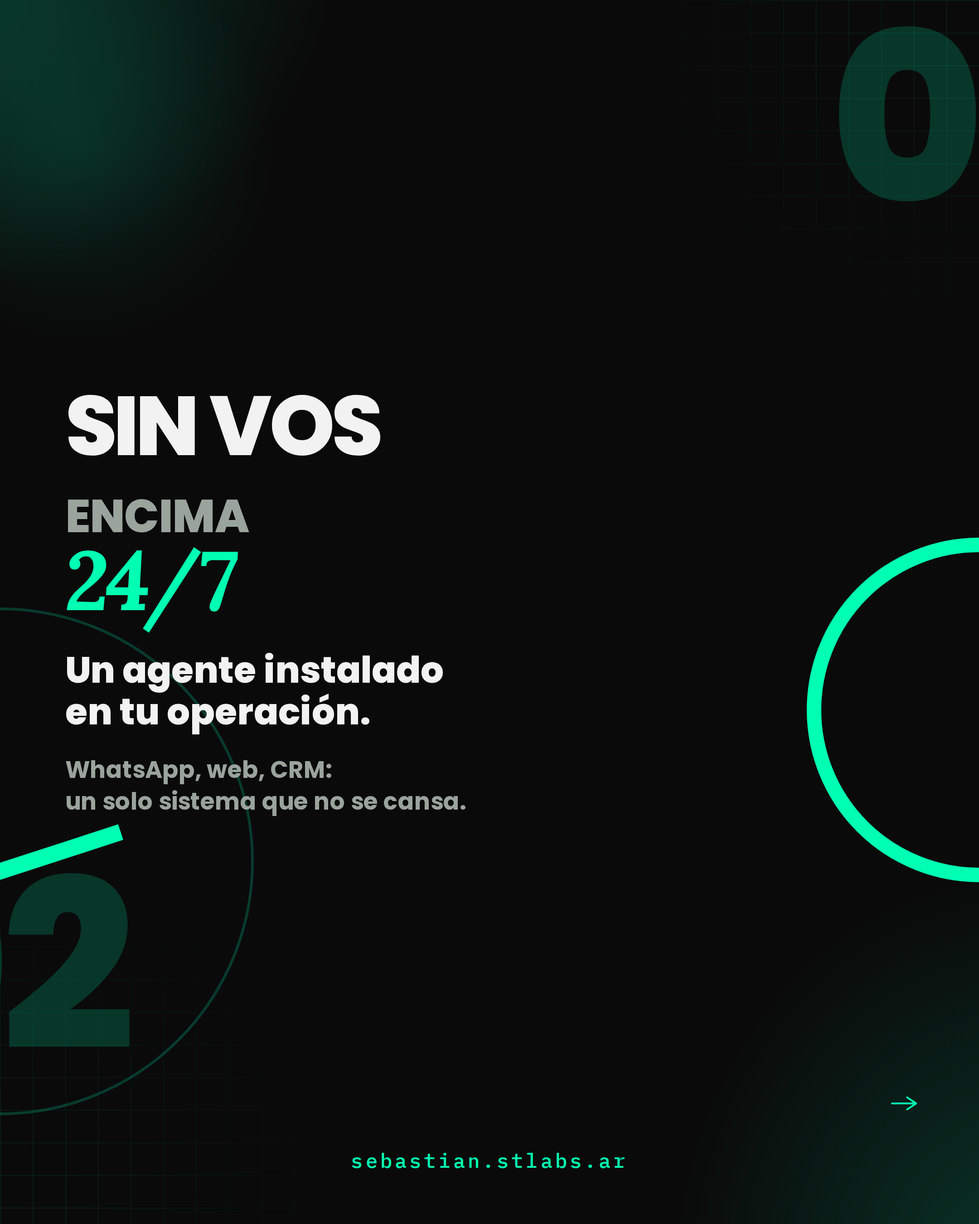
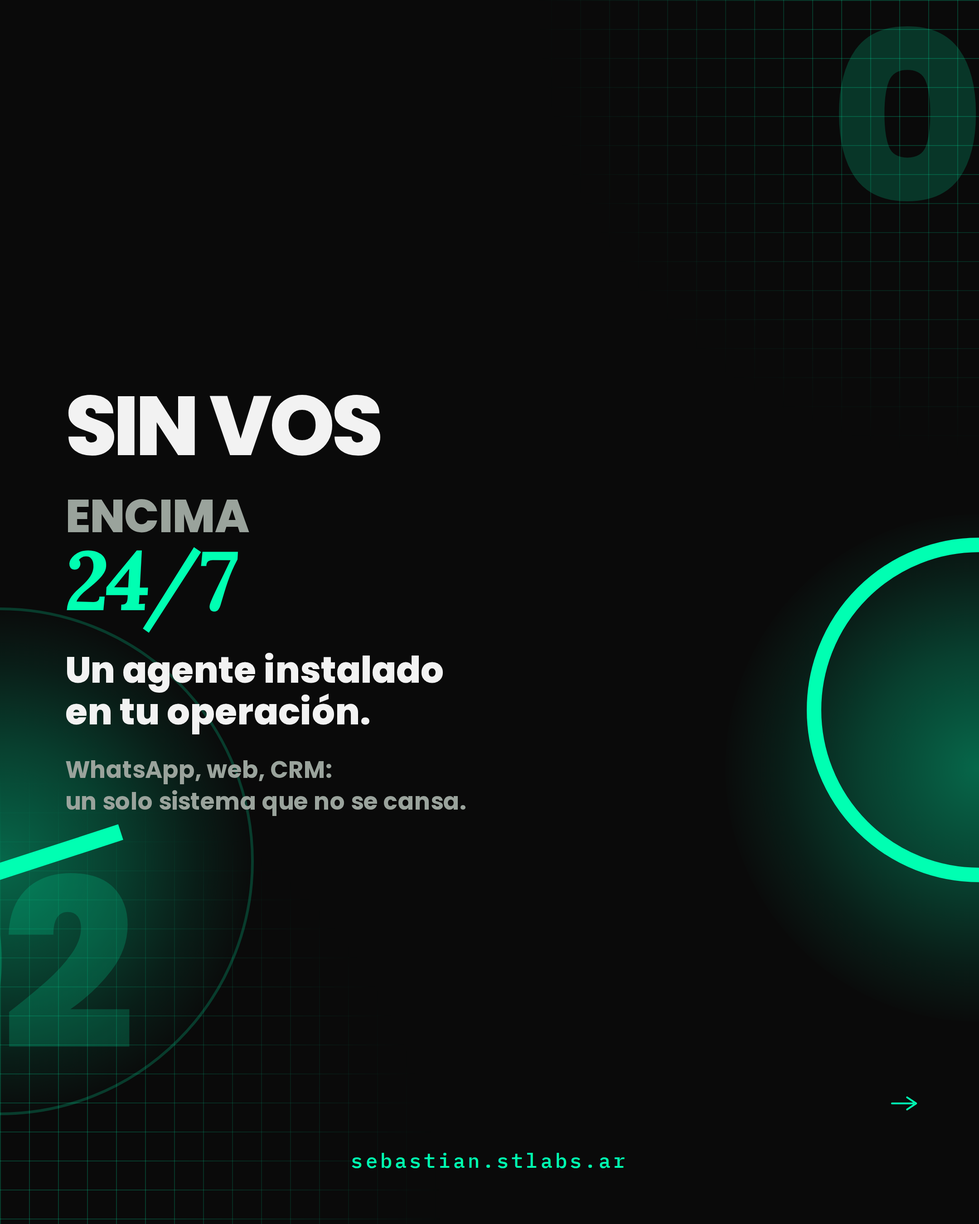
Fondo: cuadrícula más visible y manchas continuas entre slides
Retícula más notoria en esquinas; manchas verdes partidas en la
costura (hi/lo/mid) para continuidad al swipe.

diff --git a/builds/2026-08-16-frases-continuidad/carrusel-standalone.html b/builds/2026-08-16-frases-continuidad/carrusel-standalone.html
@@ -17,30 +17,42 @@ html, body { background:#000; }
 }
 .tex {
   position:absolute; inset:0; z-index:0; pointer-events:none;
-  background:
-    /* Manchas verdes — esquina sup-izq y inf-der */
-    radial-gradient(ellipse 58% 42% at -5% -5%, rgba(0,255,178,.22), transparent 68%),
-    radial-gradient(ellipse 52% 48% at 105% 105%, rgba(0,255,178,.18), transparent 70%),
-    radial-gradient(ellipse 28% 22% at 8% 12%, rgba(0,255,178,.10), transparent 72%);
+  background: transparent;
 }
 .tex::before,
 .tex::after {
   content:''; position:absolute; inset:0; pointer-events:none;
   background-image:
-    linear-gradient(rgba(0,255,178,.075) 1px, transparent 1px),
-    linear-gradient(90deg, rgba(0,255,178,.075) 1px, transparent 1px);
-  background-size:36px 36px;
+    linear-gradient(rgba(0,255,178,.20) 1px, transparent 1px),
+    linear-gradient(90deg, rgba(0,255,178,.20) 1px, transparent 1px);
+  background-size:32px 32px;
 }
-/* Cuadrícula sutil — esquina superior derecha */
+/* Cuadrícula más notoria — esquina superior derecha */
 .tex::before {
-  -webkit-mask-image: radial-gradient(ellipse 50% 40% at 100% 0%, #000 15%, transparent 72%);
-  mask-image: radial-gradient(ellipse 50% 40% at 100% 0%, #000 15%, transparent 72%);
+  -webkit-mask-image: radial-gradient(ellipse 58% 48% at 100% 0%, #000 25%, transparent 78%);
+  mask-image: radial-gradient(ellipse 58% 48% at 100% 0%, #000 25%, transparent 78%);
 }
-/* Cuadrícula sutil — esquina inferior izquierda */
+/* Cuadrícula más notoria — esquina inferior izquierda */
 .tex::after {
-  -webkit-mask-image: radial-gradient(ellipse 50% 40% at 0% 100%, #000 15%, transparent 72%);
-  mask-image: radial-gradient(ellipse 50% 40% at 0% 100%, #000 15%, transparent 72%);
+  -webkit-mask-image: radial-gradient(ellipse 58% 48% at 0% 100%, #000 25%, transparent 78%);
+  mask-image: radial-gradient(ellipse 58% 48% at 0% 100%, #000 25%, transparent 78%);
 }
+
+/* Manchas verdes continuas entre slides (centro en la costura) */
+.stain {
+  position:absolute; z-index:0; pointer-events:none;
+  width:560px; height:560px; border-radius:50%;
+  background: radial-gradient(circle at 50% 50%,
+    rgba(0,255,178,.38) 0%,
+    rgba(0,255,178,.22) 32%,
+    rgba(0,255,178,.08) 55%,
+    transparent 72%);
+}
+.stain-out { right:-280px; }
+.stain-in  { left:-280px; }
+.stain-hi  { top:40px; }
+.stain-lo  { bottom:120px; }
+.stain-mid { top:42%; }
 
 .seam-num {
   position:absolute; z-index:2; pointer-events:none;
@@ -135,7 +147,7 @@ html, body { background:#000; }
   font-size:32px; line-height:1.3; color:#F2F2F2; max-width:720px;
 }
 </style></head>
-<body><div class="sheet"><section class="slide" data-id="01"><div class="tex"></div><div class="seam-num seam-out seam-top" aria-hidden="true">01</div><div class="geo geo-circle geo-out" aria-hidden="true"></div><div class="geo geo-arrow geo-arrow-out" aria-hidden="true"><svg viewBox="0 0 200 80" width="200" height="80"><path d="M8 40 H130 M100 12 L168 40 L100 68" fill="none" stroke="#00FFB2" stroke-width="14" stroke-linecap="square" stroke-linejoin="miter"/></svg></div><div class="mid"><p class="kicker">Para dueños que no dan abasto</p><h1 class="display">TU EMPRESA<br>NECESITA<br>UN <span class="ac">AGENTE</span></h1><p class="punch">No otra persona.<br><span class="ac xl">Un sistema que vende.</span></p></div><div class="firma">sebastian.stlabs.ar</div><div class="nav-arrow" aria-hidden="true"><svg viewBox="0 0 40 24" width="34" height="20"><path d="M2 12 H30 M22 4 L34 12 L22 20" fill="none" stroke="#00FFB2" stroke-width="2.4" stroke-linecap="round" stroke-linejoin="round"/></svg></div></section><section class="slide" data-id="02"><div class="tex"></div><div class="seam-num seam-in seam-top" aria-hidden="true">01</div>
-<div class="seam-num seam-out seam-bot" aria-hidden="true">02</div><div class="geo geo-circle geo-in" aria-hidden="true"></div><div class="geo geo-arrow geo-arrow-in" aria-hidden="true"><svg viewBox="0 0 200 80" width="200" height="80"><path d="M-40 40 H90 M60 12 L128 40 L60 68" fill="none" stroke="#00FFB2" stroke-width="14" stroke-linecap="square" stroke-linejoin="miter"/></svg></div><div class="geo geo-ring geo-out-mid" aria-hidden="true"></div><div class="geo geo-bar geo-bar-out" aria-hidden="true"></div><div class="mid mid-r"><h1 class="display">RESPONDE<br><span class="sm">CADA</span><br><span class="ac">LEAD</span></h1><p class="punch soft">Califica. Agenda. Hace el seguimiento.<br><span class="ac">Mientras vos liderás.</span></p></div><div class="firma">sebastian.stlabs.ar</div><div class="nav-arrow" aria-hidden="true"><svg viewBox="0 0 40 24" width="34" height="20"><path d="M2 12 H30 M22 4 L34 12 L22 20" fill="none" stroke="#00FFB2" stroke-width="2.4" stroke-linecap="round" stroke-linejoin="round"/></svg></div></section><section class="slide" data-id="03"><div class="tex"></div><div class="seam-num seam-in seam-bot" aria-hidden="true">02</div>
-<div class="seam-num seam-out seam-top" aria-hidden="true">03</div><div class="geo geo-ring geo-in-mid" aria-hidden="true"></div><div class="geo geo-bar geo-bar-in" aria-hidden="true"></div><div class="geo geo-circle geo-out" aria-hidden="true"></div><div class="mid"><h1 class="display">SIN VOS<br><span class="sm">ENCIMA</span><br><span class="ac">24/7</span></h1><p class="punch">Un agente instalado<br>en tu operación.</p><p class="sub">WhatsApp, web, CRM:<br>un solo sistema que no se cansa.</p></div><div class="firma">sebastian.stlabs.ar</div><div class="nav-arrow" aria-hidden="true"><svg viewBox="0 0 40 24" width="34" height="20"><path d="M2 12 H30 M22 4 L34 12 L22 20" fill="none" stroke="#00FFB2" stroke-width="2.4" stroke-linecap="round" stroke-linejoin="round"/></svg></div></section><section class="slide" data-id="04"><div class="tex"></div><div class="seam-num seam-in seam-top" aria-hidden="true">03</div>
+<body><div class="sheet"><section class="slide" data-id="01"><div class="tex"></div><div class="stain stain-out stain-hi" aria-hidden="true"></div><div class="seam-num seam-out seam-top" aria-hidden="true">01</div><div class="geo geo-circle geo-out" aria-hidden="true"></div><div class="geo geo-arrow geo-arrow-out" aria-hidden="true"><svg viewBox="0 0 200 80" width="200" height="80"><path d="M8 40 H130 M100 12 L168 40 L100 68" fill="none" stroke="#00FFB2" stroke-width="14" stroke-linecap="square" stroke-linejoin="miter"/></svg></div><div class="mid"><p class="kicker">Para dueños que no dan abasto</p><h1 class="display">TU EMPRESA<br>NECESITA<br>UN <span class="ac">AGENTE</span></h1><p class="punch">No otra persona.<br><span class="ac xl">Un sistema que vende.</span></p></div><div class="firma">sebastian.stlabs.ar</div><div class="nav-arrow" aria-hidden="true"><svg viewBox="0 0 40 24" width="34" height="20"><path d="M2 12 H30 M22 4 L34 12 L22 20" fill="none" stroke="#00FFB2" stroke-width="2.4" stroke-linecap="round" stroke-linejoin="round"/></svg></div></section><section class="slide" data-id="02"><div class="tex"></div><div class="stain stain-in stain-hi" aria-hidden="true"></div><div class="stain stain-out stain-lo" aria-hidden="true"></div><div class="seam-num seam-in seam-top" aria-hidden="true">01</div>
+<div class="seam-num seam-out seam-bot" aria-hidden="true">02</div><div class="geo geo-circle geo-in" aria-hidden="true"></div><div class="geo geo-arrow geo-arrow-in" aria-hidden="true"><svg viewBox="0 0 200 80" width="200" height="80"><path d="M-40 40 H90 M60 12 L128 40 L60 68" fill="none" stroke="#00FFB2" stroke-width="14" stroke-linecap="square" stroke-linejoin="miter"/></svg></div><div class="geo geo-ring geo-out-mid" aria-hidden="true"></div><div class="geo geo-bar geo-bar-out" aria-hidden="true"></div><div class="mid mid-r"><h1 class="display">RESPONDE<br><span class="sm">CADA</span><br><span class="ac">LEAD</span></h1><p class="punch soft">Califica. Agenda. Hace el seguimiento.<br><span class="ac">Mientras vos liderás.</span></p></div><div class="firma">sebastian.stlabs.ar</div><div class="nav-arrow" aria-hidden="true"><svg viewBox="0 0 40 24" width="34" height="20"><path d="M2 12 H30 M22 4 L34 12 L22 20" fill="none" stroke="#00FFB2" stroke-width="2.4" stroke-linecap="round" stroke-linejoin="round"/></svg></div></section><section class="slide" data-id="03"><div class="tex"></div><div class="stain stain-in stain-lo" aria-hidden="true"></div><div class="stain stain-out stain-mid" aria-hidden="true"></div><div class="seam-num seam-in seam-bot" aria-hidden="true">02</div>
+<div class="seam-num seam-out seam-top" aria-hidden="true">03</div><div class="geo geo-ring geo-in-mid" aria-hidden="true"></div><div class="geo geo-bar geo-bar-in" aria-hidden="true"></div><div class="geo geo-circle geo-out" aria-hidden="true"></div><div class="mid"><h1 class="display">SIN VOS<br><span class="sm">ENCIMA</span><br><span class="ac">24/7</span></h1><p class="punch">Un agente instalado<br>en tu operación.</p><p class="sub">WhatsApp, web, CRM:<br>un solo sistema que no se cansa.</p></div><div class="firma">sebastian.stlabs.ar</div><div class="nav-arrow" aria-hidden="true"><svg viewBox="0 0 40 24" width="34" height="20"><path d="M2 12 H30 M22 4 L34 12 L22 20" fill="none" stroke="#00FFB2" stroke-width="2.4" stroke-linecap="round" stroke-linejoin="round"/></svg></div></section><section class="slide" data-id="04"><div class="tex"></div><div class="stain stain-in stain-mid" aria-hidden="true"></div><div class="seam-num seam-in seam-top" aria-hidden="true">03</div>
 <div class="seam-num seam-solo seam-bot" aria-hidden="true">04</div><div class="geo geo-circle geo-in" aria-hidden="true"></div><div class="geo geo-arrow geo-arrow-in" aria-hidden="true"><svg viewBox="0 0 200 80" width="200" height="80"><path d="M-40 40 H90 M60 12 L128 40 L60 68" fill="none" stroke="#00FFB2" stroke-width="14" stroke-linecap="square" stroke-linejoin="miter"/></svg></div><div class="mid mid-cta"><p class="cta-pre">Comentá</p><h1 class="cta-kw">AGENTE</h1><p class="cta-mid">y te muestro cómo meter<br>un sistema que venda<br><span class="ac">aunque vos no estés.</span></p></div><div class="firma">sebastian.stlabs.ar</div></section></div></body></html>

diff --git a/resultados/2026-08-16-frases-continuidad/carrusel-standalone.html b/resultados/2026-08-16-frases-continuidad/carrusel-standalone.html
@@ -17,30 +17,42 @@ html, body { background:#000; }
 }
 .tex {
   position:absolute; inset:0; z-index:0; pointer-events:none;
-  background:
-    /* Manchas verdes — esquina sup-izq y inf-der */
-    radial-gradient(ellipse 58% 42% at -5% -5%, rgba(0,255,178,.22), transparent 68%),
-    radial-gradient(ellipse 52% 48% at 105% 105%, rgba(0,255,178,.18), transparent 70%),
-    radial-gradient(ellipse 28% 22% at 8% 12%, rgba(0,255,178,.10), transparent 72%);
+  background: transparent;
 }
 .tex::before,
 .tex::after {
   content:''; position:absolute; inset:0; pointer-events:none;
   background-image:
-    linear-gradient(rgba(0,255,178,.075) 1px, transparent 1px),
-    linear-gradient(90deg, rgba(0,255,178,.075) 1px, transparent 1px);
-  background-size:36px 36px;
+    linear-gradient(rgba(0,255,178,.20) 1px, transparent 1px),
+    linear-gradient(90deg, rgba(0,255,178,.20) 1px, transparent 1px);
+  background-size:32px 32px;
 }
-/* Cuadrícula sutil — esquina superior derecha */
+/* Cuadrícula más notoria — esquina superior derecha */
 .tex::before {
-  -webkit-mask-image: radial-gradient(ellipse 50% 40% at 100% 0%, #000 15%, transparent 72%);
-  mask-image: radial-gradient(ellipse 50% 40% at 100% 0%, #000 15%, transparent 72%);
+  -webkit-mask-image: radial-gradient(ellipse 58% 48% at 100% 0%, #000 25%, transparent 78%);
+  mask-image: radial-gradient(ellipse 58% 48% at 100% 0%, #000 25%, transparent 78%);
 }
-/* Cuadrícula sutil — esquina inferior izquierda */
+/* Cuadrícula más notoria — esquina inferior izquierda */
 .tex::after {
-  -webkit-mask-image: radial-gradient(ellipse 50% 40% at 0% 100%, #000 15%, transparent 72%);
-  mask-image: radial-gradient(ellipse 50% 40% at 0% 100%, #000 15%, transparent 72%);
+  -webkit-mask-image: radial-gradient(ellipse 58% 48% at 0% 100%, #000 25%, transparent 78%);
+  mask-image: radial-gradient(ellipse 58% 48% at 0% 100%, #000 25%, transparent 78%);
 }
+
+/* Manchas verdes continuas entre slides (centro en la costura) */
+.stain {
+  position:absolute; z-index:0; pointer-events:none;
+  width:560px; height:560px; border-radius:50%;
+  background: radial-gradient(circle at 50% 50%,
+    rgba(0,255,178,.38) 0%,
+    rgba(0,255,178,.22) 32%,
+    rgba(0,255,178,.08) 55%,
+    transparent 72%);
+}
+.stain-out { right:-280px; }
+.stain-in  { left:-280px; }
+.stain-hi  { top:40px; }
+.stain-lo  { bottom:120px; }
+.stain-mid { top:42%; }
 
 .seam-num {
   position:absolute; z-index:2; pointer-events:none;
@@ -135,7 +147,7 @@ html, body { background:#000; }
   font-size:32px; line-height:1.3; color:#F2F2F2; max-width:720px;
 }
 </style></head>
-<body><div class="sheet"><section class="slide" data-id="01"><div class="tex"></div><div class="seam-num seam-out seam-top" aria-hidden="true">01</div><div class="geo geo-circle geo-out" aria-hidden="true"></div><div class="geo geo-arrow geo-arrow-out" aria-hidden="true"><svg viewBox="0 0 200 80" width="200" height="80"><path d="M8 40 H130 M100 12 L168 40 L100 68" fill="none" stroke="#00FFB2" stroke-width="14" stroke-linecap="square" stroke-linejoin="miter"/></svg></div><div class="mid"><p class="kicker">Para dueños que no dan abasto</p><h1 class="display">TU EMPRESA<br>NECESITA<br>UN <span class="ac">AGENTE</span></h1><p class="punch">No otra persona.<br><span class="ac xl">Un sistema que vende.</span></p></div><div class="firma">sebastian.stlabs.ar</div><div class="nav-arrow" aria-hidden="true"><svg viewBox="0 0 40 24" width="34" height="20"><path d="M2 12 H30 M22 4 L34 12 L22 20" fill="none" stroke="#00FFB2" stroke-width="2.4" stroke-linecap="round" stroke-linejoin="round"/></svg></div></section><section class="slide" data-id="02"><div class="tex"></div><div class="seam-num seam-in seam-top" aria-hidden="true">01</div>
-<div class="seam-num seam-out seam-bot" aria-hidden="true">02</div><div class="geo geo-circle geo-in" aria-hidden="true"></div><div class="geo geo-arrow geo-arrow-in" aria-hidden="true"><svg viewBox="0 0 200 80" width="200" height="80"><path d="M-40 40 H90 M60 12 L128 40 L60 68" fill="none" stroke="#00FFB2" stroke-width="14" stroke-linecap="square" stroke-linejoin="miter"/></svg></div><div class="geo geo-ring geo-out-mid" aria-hidden="true"></div><div class="geo geo-bar geo-bar-out" aria-hidden="true"></div><div class="mid mid-r"><h1 class="display">RESPONDE<br><span class="sm">CADA</span><br><span class="ac">LEAD</span></h1><p class="punch soft">Califica. Agenda. Hace el seguimiento.<br><span class="ac">Mientras vos liderás.</span></p></div><div class="firma">sebastian.stlabs.ar</div><div class="nav-arrow" aria-hidden="true"><svg viewBox="0 0 40 24" width="34" height="20"><path d="M2 12 H30 M22 4 L34 12 L22 20" fill="none" stroke="#00FFB2" stroke-width="2.4" stroke-linecap="round" stroke-linejoin="round"/></svg></div></section><section class="slide" data-id="03"><div class="tex"></div><div class="seam-num seam-in seam-bot" aria-hidden="true">02</div>
-<div class="seam-num seam-out seam-top" aria-hidden="true">03</div><div class="geo geo-ring geo-in-mid" aria-hidden="true"></div><div class="geo geo-bar geo-bar-in" aria-hidden="true"></div><div class="geo geo-circle geo-out" aria-hidden="true"></div><div class="mid"><h1 class="display">SIN VOS<br><span class="sm">ENCIMA</span><br><span class="ac">24/7</span></h1><p class="punch">Un agente instalado<br>en tu operación.</p><p class="sub">WhatsApp, web, CRM:<br>un solo sistema que no se cansa.</p></div><div class="firma">sebastian.stlabs.ar</div><div class="nav-arrow" aria-hidden="true"><svg viewBox="0 0 40 24" width="34" height="20"><path d="M2 12 H30 M22 4 L34 12 L22 20" fill="none" stroke="#00FFB2" stroke-width="2.4" stroke-linecap="round" stroke-linejoin="round"/></svg></div></section><section class="slide" data-id="04"><div class="tex"></div><div class="seam-num seam-in seam-top" aria-hidden="true">03</div>
+<body><div class="sheet"><section class="slide" data-id="01"><div class="tex"></div><div class="stain stain-out stain-hi" aria-hidden="true"></div><div class="seam-num seam-out seam-top" aria-hidden="true">01</div><div class="geo geo-circle geo-out" aria-hidden="true"></div><div class="geo geo-arrow geo-arrow-out" aria-hidden="true"><svg viewBox="0 0 200 80" width="200" height="80"><path d="M8 40 H130 M100 12 L168 40 L100 68" fill="none" stroke="#00FFB2" stroke-width="14" stroke-linecap="square" stroke-linejoin="miter"/></svg></div><div class="mid"><p class="kicker">Para dueños que no dan abasto</p><h1 class="display">TU EMPRESA<br>NECESITA<br>UN <span class="ac">AGENTE</span></h1><p class="punch">No otra persona.<br><span class="ac xl">Un sistema que vende.</span></p></div><div class="firma">sebastian.stlabs.ar</div><div class="nav-arrow" aria-hidden="true"><svg viewBox="0 0 40 24" width="34" height="20"><path d="M2 12 H30 M22 4 L34 12 L22 20" fill="none" stroke="#00FFB2" stroke-width="2.4" stroke-linecap="round" stroke-linejoin="round"/></svg></div></section><section class="slide" data-id="02"><div class="tex"></div><div class="stain stain-in stain-hi" aria-hidden="true"></div><div class="stain stain-out stain-lo" aria-hidden="true"></div><div class="seam-num seam-in seam-top" aria-hidden="true">01</div>
+<div class="seam-num seam-out seam-bot" aria-hidden="true">02</div><div class="geo geo-circle geo-in" aria-hidden="true"></div><div class="geo geo-arrow geo-arrow-in" aria-hidden="true"><svg viewBox="0 0 200 80" width="200" height="80"><path d="M-40 40 H90 M60 12 L128 40 L60 68" fill="none" stroke="#00FFB2" stroke-width="14" stroke-linecap="square" stroke-linejoin="miter"/></svg></div><div class="geo geo-ring geo-out-mid" aria-hidden="true"></div><div class="geo geo-bar geo-bar-out" aria-hidden="true"></div><div class="mid mid-r"><h1 class="display">RESPONDE<br><span class="sm">CADA</span><br><span class="ac">LEAD</span></h1><p class="punch soft">Califica. Agenda. Hace el seguimiento.<br><span class="ac">Mientras vos liderás.</span></p></div><div class="firma">sebastian.stlabs.ar</div><div class="nav-arrow" aria-hidden="true"><svg viewBox="0 0 40 24" width="34" height="20"><path d="M2 12 H30 M22 4 L34 12 L22 20" fill="none" stroke="#00FFB2" stroke-width="2.4" stroke-linecap="round" stroke-linejoin="round"/></svg></div></section><section class="slide" data-id="03"><div class="tex"></div><div class="stain stain-in stain-lo" aria-hidden="true"></div><div class="stain stain-out stain-mid" aria-hidden="true"></div><div class="seam-num seam-in seam-bot" aria-hidden="true">02</div>
+<div class="seam-num seam-out seam-top" aria-hidden="true">03</div><div class="geo geo-ring geo-in-mid" aria-hidden="true"></div><div class="geo geo-bar geo-bar-in" aria-hidden="true"></div><div class="geo geo-circle geo-out" aria-hidden="true"></div><div class="mid"><h1 class="display">SIN VOS<br><span class="sm">ENCIMA</span><br><span class="ac">24/7</span></h1><p class="punch">Un agente instalado<br>en tu operación.</p><p class="sub">WhatsApp, web, CRM:<br>un solo sistema que no se cansa.</p></div><div class="firma">sebastian.stlabs.ar</div><div class="nav-arrow" aria-hidden="true"><svg viewBox="0 0 40 24" width="34" height="20"><path d="M2 12 H30 M22 4 L34 12 L22 20" fill="none" stroke="#00FFB2" stroke-width="2.4" stroke-linecap="round" stroke-linejoin="round"/></svg></div></section><section class="slide" data-id="04"><div class="tex"></div><div class="stain stain-in stain-mid" aria-hidden="true"></div><div class="seam-num seam-in seam-top" aria-hidden="true">03</div>
 <div class="seam-num seam-solo seam-bot" aria-hidden="true">04</div><div class="geo geo-circle geo-in" aria-hidden="true"></div><div class="geo geo-arrow geo-arrow-in" aria-hidden="true"><svg viewBox="0 0 200 80" width="200" height="80"><path d="M-40 40 H90 M60 12 L128 40 L60 68" fill="none" stroke="#00FFB2" stroke-width="14" stroke-linecap="square" stroke-linejoin="miter"/></svg></div><div class="mid mid-cta"><p class="cta-pre">Comentá</p><h1 class="cta-kw">AGENTE</h1><p class="cta-mid">y te muestro cómo meter<br>un sistema que venda<br><span class="ac">aunque vos no estés.</span></p></div><div class="firma">sebastian.stlabs.ar</div></section></div></body></html>

diff --git a/resultados/2026-08-16-frases-continuidad/carrusel.html b/resultados/2026-08-16-frases-continuidad/carrusel.html
@@ -17,30 +17,42 @@ html, body { background:#000; }
 }
 .tex {
   position:absolute; inset:0; z-index:0; pointer-events:none;
-  background:
-    /* Manchas verdes — esquina sup-izq y inf-der */
-    radial-gradient(ellipse 58% 42% at -5% -5%, rgba(0,255,178,.22), transparent 68%),
-    radial-gradient(ellipse 52% 48% at 105% 105%, rgba(0,255,178,.18), transparent 70%),
-    radial-gradient(ellipse 28% 22% at 8% 12%, rgba(0,255,178,.10), transparent 72%);
+  background: transparent;
 }
 .tex::before,
 .tex::after {
   content:''; position:absolute; inset:0; pointer-events:none;
   background-image:
-    linear-gradient(rgba(0,255,178,.075) 1px, transparent 1px),
-    linear-gradient(90deg, rgba(0,255,178,.075) 1px, transparent 1px);
-  background-size:36px 36px;
+    linear-gradient(rgba(0,255,178,.20) 1px, transparent 1px),
+    linear-gradient(90deg, rgba(0,255,178,.20) 1px, transparent 1px);
+  background-size:32px 32px;
 }
-/* Cuadrícula sutil — esquina superior derecha */
+/* Cuadrícula más notoria — esquina superior derecha */
 .tex::before {
-  -webkit-mask-image: radial-gradient(ellipse 50% 40% at 100% 0%, #000 15%, transparent 72%);
-  mask-image: radial-gradient(ellipse 50% 40% at 100% 0%, #000 15%, transparent 72%);
+  -webkit-mask-image: radial-gradient(ellipse 58% 48% at 100% 0%, #000 25%, transparent 78%);
+  mask-image: radial-gradient(ellipse 58% 48% at 100% 0%, #000 25%, transparent 78%);
 }
-/* Cuadrícula sutil — esquina inferior izquierda */
+/* Cuadrícula más notoria — esquina inferior izquierda */
 .tex::after {
-  -webkit-mask-image: radial-gradient(ellipse 50% 40% at 0% 100%, #000 15%, transparent 72%);
-  mask-image: radial-gradient(ellipse 50% 40% at 0% 100%, #000 15%, transparent 72%);
+  -webkit-mask-image: radial-gradient(ellipse 58% 48% at 0% 100%, #000 25%, transparent 78%);
+  mask-image: radial-gradient(ellipse 58% 48% at 0% 100%, #000 25%, transparent 78%);
 }
+
+/* Manchas verdes continuas entre slides (centro en la costura) */
+.stain {
+  position:absolute; z-index:0; pointer-events:none;
+  width:560px; height:560px; border-radius:50%;
+  background: radial-gradient(circle at 50% 50%,
+    rgba(0,255,178,.38) 0%,
+    rgba(0,255,178,.22) 32%,
+    rgba(0,255,178,.08) 55%,
+    transparent 72%);
+}
+.stain-out { right:-280px; }
+.stain-in  { left:-280px; }
+.stain-hi  { top:40px; }
+.stain-lo  { bottom:120px; }
+.stain-mid { top:42%; }
 
 .seam-num {
   position:absolute; z-index:2; pointer-events:none;
@@ -135,7 +147,7 @@ html, body { background:#000; }
   font-size:32px; line-height:1.3; color:#F2F2F2; max-width:720px;
 }
 </style></head>
-<body><div class="sheet"><section class="slide" data-id="01"><div class="tex"></div><div class="seam-num seam-out seam-top" aria-hidden="true">01</div><div class="geo geo-circle geo-out" aria-hidden="true"></div><div class="geo geo-arrow geo-arrow-out" aria-hidden="true"><svg viewBox="0 0 200 80" width="200" height="80"><path d="M8 40 H130 M100 12 L168 40 L100 68" fill="none" stroke="#00FFB2" stroke-width="14" stroke-linecap="square" stroke-linejoin="miter"/></svg></div><div class="mid"><p class="kicker">Para dueños que no dan abasto</p><h1 class="display">TU EMPRESA<br>NECESITA<br>UN <span class="ac">AGENTE</span></h1><p class="punch">No otra persona.<br><span class="ac xl">Un sistema que vende.</span></p></div><div class="firma">sebastian.stlabs.ar</div><div class="nav-arrow" aria-hidden="true"><svg viewBox="0 0 40 24" width="34" height="20"><path d="M2 12 H30 M22 4 L34 12 L22 20" fill="none" stroke="#00FFB2" stroke-width="2.4" stroke-linecap="round" stroke-linejoin="round"/></svg></div></section><section class="slide" data-id="02"><div class="tex"></div><div class="seam-num seam-in seam-top" aria-hidden="true">01</div>
-<div class="seam-num seam-out seam-bot" aria-hidden="true">02</div><div class="geo geo-circle geo-in" aria-hidden="true"></div><div class="geo geo-arrow geo-arrow-in" aria-hidden="true"><svg viewBox="0 0 200 80" width="200" height="80"><path d="M-40 40 H90 M60 12 L128 40 L60 68" fill="none" stroke="#00FFB2" stroke-width="14" stroke-linecap="square" stroke-linejoin="miter"/></svg></div><div class="geo geo-ring geo-out-mid" aria-hidden="true"></div><div class="geo geo-bar geo-bar-out" aria-hidden="true"></div><div class="mid mid-r"><h1 class="display">RESPONDE<br><span class="sm">CADA</span><br><span class="ac">LEAD</span></h1><p class="punch soft">Califica. Agenda. Hace el seguimiento.<br><span class="ac">Mientras vos liderás.</span></p></div><div class="firma">sebastian.stlabs.ar</div><div class="nav-arrow" aria-hidden="true"><svg viewBox="0 0 40 24" width="34" height="20"><path d="M2 12 H30 M22 4 L34 12 L22 20" fill="none" stroke="#00FFB2" stroke-width="2.4" stroke-linecap="round" stroke-linejoin="round"/></svg></div></section><section class="slide" data-id="03"><div class="tex"></div><div class="seam-num seam-in seam-bot" aria-hidden="true">02</div>
-<div class="seam-num seam-out seam-top" aria-hidden="true">03</div><div class="geo geo-ring geo-in-mid" aria-hidden="true"></div><div class="geo geo-bar geo-bar-in" aria-hidden="true"></div><div class="geo geo-circle geo-out" aria-hidden="true"></div><div class="mid"><h1 class="display">SIN VOS<br><span class="sm">ENCIMA</span><br><span class="ac">24/7</span></h1><p class="punch">Un agente instalado<br>en tu operación.</p><p class="sub">WhatsApp, web, CRM:<br>un solo sistema que no se cansa.</p></div><div class="firma">sebastian.stlabs.ar</div><div class="nav-arrow" aria-hidden="true"><svg viewBox="0 0 40 24" width="34" height="20"><path d="M2 12 H30 M22 4 L34 12 L22 20" fill="none" stroke="#00FFB2" stroke-width="2.4" stroke-linecap="round" stroke-linejoin="round"/></svg></div></section><section class="slide" data-id="04"><div class="tex"></div><div class="seam-num seam-in seam-top" aria-hidden="true">03</div>
+<body><div class="sheet"><section class="slide" data-id="01"><div class="tex"></div><div class="stain stain-out stain-hi" aria-hidden="true"></div><div class="seam-num seam-out seam-top" aria-hidden="true">01</div><div class="geo geo-circle geo-out" aria-hidden="true"></div><div class="geo geo-arrow geo-arrow-out" aria-hidden="true"><svg viewBox="0 0 200 80" width="200" height="80"><path d="M8 40 H130 M100 12 L168 40 L100 68" fill="none" stroke="#00FFB2" stroke-width="14" stroke-linecap="square" stroke-linejoin="miter"/></svg></div><div class="mid"><p class="kicker">Para dueños que no dan abasto</p><h1 class="display">TU EMPRESA<br>NECESITA<br>UN <span class="ac">AGENTE</span></h1><p class="punch">No otra persona.<br><span class="ac xl">Un sistema que vende.</span></p></div><div class="firma">sebastian.stlabs.ar</div><div class="nav-arrow" aria-hidden="true"><svg viewBox="0 0 40 24" width="34" height="20"><path d="M2 12 H30 M22 4 L34 12 L22 20" fill="none" stroke="#00FFB2" stroke-width="2.4" stroke-linecap="round" stroke-linejoin="round"/></svg></div></section><section class="slide" data-id="02"><div class="tex"></div><div class="stain stain-in stain-hi" aria-hidden="true"></div><div class="stain stain-out stain-lo" aria-hidden="true"></div><div class="seam-num seam-in seam-top" aria-hidden="true">01</div>
+<div class="seam-num seam-out seam-bot" aria-hidden="true">02</div><div class="geo geo-circle geo-in" aria-hidden="true"></div><div class="geo geo-arrow geo-arrow-in" aria-hidden="true"><svg viewBox="0 0 200 80" width="200" height="80"><path d="M-40 40 H90 M60 12 L128 40 L60 68" fill="none" stroke="#00FFB2" stroke-width="14" stroke-linecap="square" stroke-linejoin="miter"/></svg></div><div class="geo geo-ring geo-out-mid" aria-hidden="true"></div><div class="geo geo-bar geo-bar-out" aria-hidden="true"></div><div class="mid mid-r"><h1 class="display">RESPONDE<br><span class="sm">CADA</span><br><span class="ac">LEAD</span></h1><p class="punch soft">Califica. Agenda. Hace el seguimiento.<br><span class="ac">Mientras vos liderás.</span></p></div><div class="firma">sebastian.stlabs.ar</div><div class="nav-arrow" aria-hidden="true"><svg viewBox="0 0 40 24" width="34" height="20"><path d="M2 12 H30 M22 4 L34 12 L22 20" fill="none" stroke="#00FFB2" stroke-width="2.4" stroke-linecap="round" stroke-linejoin="round"/></svg></div></section><section class="slide" data-id="03"><div class="tex"></div><div class="stain stain-in stain-lo" aria-hidden="true"></div><div class="stain stain-out stain-mid" aria-hidden="true"></div><div class="seam-num seam-in seam-bot" aria-hidden="true">02</div>
+<div class="seam-num seam-out seam-top" aria-hidden="true">03</div><div class="geo geo-ring geo-in-mid" aria-hidden="true"></div><div class="geo geo-bar geo-bar-in" aria-hidden="true"></div><div class="geo geo-circle geo-out" aria-hidden="true"></div><div class="mid"><h1 class="display">SIN VOS<br><span class="sm">ENCIMA</span><br><span class="ac">24/7</span></h1><p class="punch">Un agente instalado<br>en tu operación.</p><p class="sub">WhatsApp, web, CRM:<br>un solo sistema que no se cansa.</p></div><div class="firma">sebastian.stlabs.ar</div><div class="nav-arrow" aria-hidden="true"><svg viewBox="0 0 40 24" width="34" height="20"><path d="M2 12 H30 M22 4 L34 12 L22 20" fill="none" stroke="#00FFB2" stroke-width="2.4" stroke-linecap="round" stroke-linejoin="round"/></svg></div></section><section class="slide" data-id="04"><div class="tex"></div><div class="stain stain-in stain-mid" aria-hidden="true"></div><div class="seam-num seam-in seam-top" aria-hidden="true">03</div>
 <div class="seam-num seam-solo seam-bot" aria-hidden="true">04</div><div class="geo geo-circle geo-in" aria-hidden="true"></div><div class="geo geo-arrow geo-arrow-in" aria-hidden="true"><svg viewBox="0 0 200 80" width="200" height="80"><path d="M-40 40 H90 M60 12 L128 40 L60 68" fill="none" stroke="#00FFB2" stroke-width="14" stroke-linecap="square" stroke-linejoin="miter"/></svg></div><div class="mid mid-cta"><p class="cta-pre">Comentá</p><h1 class="cta-kw">AGENTE</h1><p class="cta-mid">y te muestro cómo meter<br>un sistema que venda<br><span class="ac">aunque vos no estés.</span></p></div><div class="firma">sebastian.stlabs.ar</div></section></div></body></html>

diff --git a/builds/2026-08-16-frases-continuidad/generate.py b/builds/2026-08-16-frases-continuidad/generate.py
@@ -85,9 +85,20 @@ def geo_bar_in():
     return '<div class="geo geo-bar geo-bar-in" aria-hidden="true"></div>'
 
 
+def stain_out(pos: str) -> str:
+    """Mitad izquierda de mancha — sale por la derecha (continúa en la siguiente)."""
+    return f'<div class="stain stain-out stain-{pos}" aria-hidden="true"></div>'
+
+
+def stain_in(pos: str) -> str:
+    """Mitad derecha de mancha — entra por la izquierda."""
+    return f'<div class="stain stain-in stain-{pos}" aria-hidden="true"></div>'
+
+
 def slide_01():
     return (
         '<section class="slide" data-id="01"><div class="tex"></div>'
+        + stain_out('hi')
         + seam_nums(1) + geo_circle_out() + geo_arrow_out()
         + '<div class="mid">'
         '<p class="kicker">Para dueños que no dan abasto</p>'
@@ -100,6 +111,7 @@ def slide_01():
 def slide_02():
     return (
         '<section class="slide" data-id="02"><div class="tex"></div>'
+        + stain_in('hi') + stain_out('lo')
         + seam_nums(2) + geo_circle_in() + geo_arrow_in() + geo_ring_out() + geo_bar_out()
         + '<div class="mid mid-r">'
         '<h1 class="display">RESPONDE<br><span class="sm">CADA</span><br><span class="ac">LEAD</span></h1>'
@@ -112,6 +124,7 @@ def slide_02():
 def slide_03():
     return (
         '<section class="slide" data-id="03"><div class="tex"></div>'
+        + stain_in('lo') + stain_out('mid')
         + seam_nums(3) + geo_ring_in() + geo_bar_in() + geo_circle_out()
         + '<div class="mid">'
         '<h1 class="display">SIN VOS<br><span class="sm">ENCIMA</span><br><span class="ac">24/7</span></h1>'
@@ -124,6 +137,7 @@ def slide_03():
 def slide_04():
     return (
         '<section class="slide" data-id="04"><div class="tex"></div>'
+        + stain_in('mid')
         + seam_nums(4) + geo_circle_in() + geo_arrow_in()
         + '<div class="mid mid-cta">'
         '<p class="cta-pre">Comentá</p>'
@@ -152,30 +166,42 @@ html, body {{ background:#000; }}
 }}
 .tex {{
   position:absolute; inset:0; z-index:0; pointer-events:none;
-  background:
-    /* Manchas verdes — esquina sup-izq y inf-der */
-    radial-gradient(ellipse 58% 42% at -5% -5%, rgba(0,255,178,.22), transparent 68%),
-    radial-gradient(ellipse 52% 48% at 105% 105%, rgba(0,255,178,.18), transparent 70%),
-    radial-gradient(ellipse 28% 22% at 8% 12%, rgba(0,255,178,.10), transparent 72%);
+  background: transparent;
 }}
 .tex::before,
 .tex::after {{
   content:''; position:absolute; inset:0; pointer-events:none;
   background-image:
-    linear-gradient(rgba(0,255,178,.075) 1px, transparent 1px),
-    linear-gradient(90deg, rgba(0,255,178,.075) 1px, transparent 1px);
-  background-size:36px 36px;
+    linear-gradient(rgba(0,255,178,.20) 1px, transparent 1px),
+    linear-gradient(90deg, rgba(0,255,178,.20) 1px, transparent 1px);
+  background-size:32px 32px;
 }}
-/* Cuadrícula sutil — esquina superior derecha */
+/* Cuadrícula más notoria — esquina superior derecha */
 .tex::before {{
-  -webkit-mask-image: radial-gradient(ellipse 50% 40% at 100% 0%, #000 15%, transparent 72%);
-  mask-image: radial-gradient(ellipse 50% 40% at 100% 0%, #000 15%, transparent 72%);
+  -webkit-mask-image: radial-gradient(ellipse 58% 48% at 100% 0%, #000 25%, transparent 78%);
+  mask-image: radial-gradient(ellipse 58% 48% at 100% 0%, #000 25%, transparent 78%);
 }}
-/* Cuadrícula sutil — esquina inferior izquierda */
+/* Cuadrícula más notoria — esquina inferior izquierda */
 .tex::after {{
-  -webkit-mask-image: radial-gradient(ellipse 50% 40% at 0% 100%, #000 15%, transparent 72%);
-  mask-image: radial-gradient(ellipse 50% 40% at 0% 100%, #000 15%, transparent 72%);
+  -webkit-mask-image: radial-gradient(ellipse 58% 48% at 0% 100%, #000 25%, transparent 78%);
+  mask-image: radial-gradient(ellipse 58% 48% at 0% 100%, #000 25%, transparent 78%);
 }}
+
+/* Manchas verdes continuas entre slides (centro en la costura) */
+.stain {{
+  position:absolute; z-index:0; pointer-events:none;
+  width:560px; height:560px; border-radius:50%;
+  background: radial-gradient(circle at 50% 50%,
+    rgba(0,255,178,.38) 0%,
+    rgba(0,255,178,.22) 32%,
+    rgba(0,255,178,.08) 55%,
+    transparent 72%);
+}}
+.stain-out {{ right:-280px; }}
+.stain-in  {{ left:-280px; }}
+.stain-hi  {{ top:40px; }}
+.stain-lo  {{ bottom:120px; }}
+.stain-mid {{ top:42%; }}
 
 .seam-num {{
   position:absolute; z-index:2; pointer-events:none;
